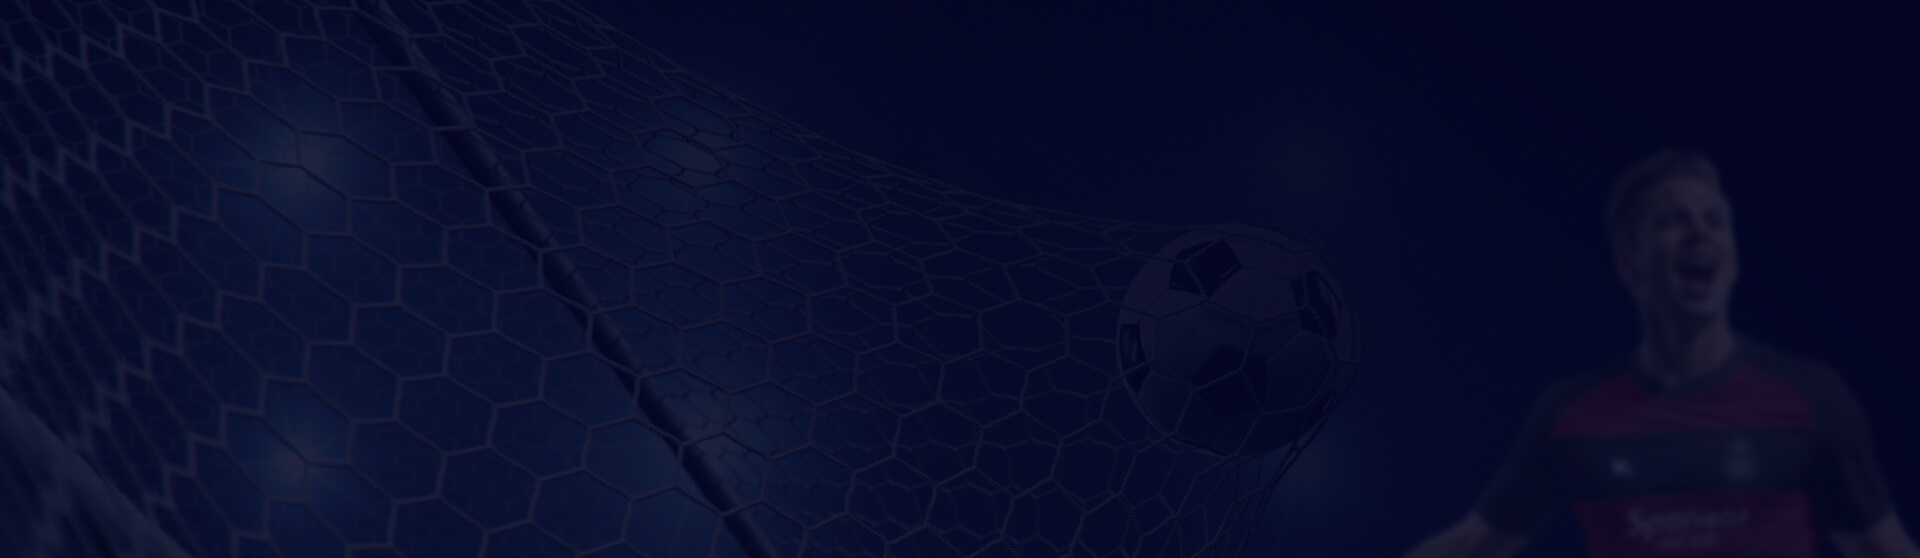
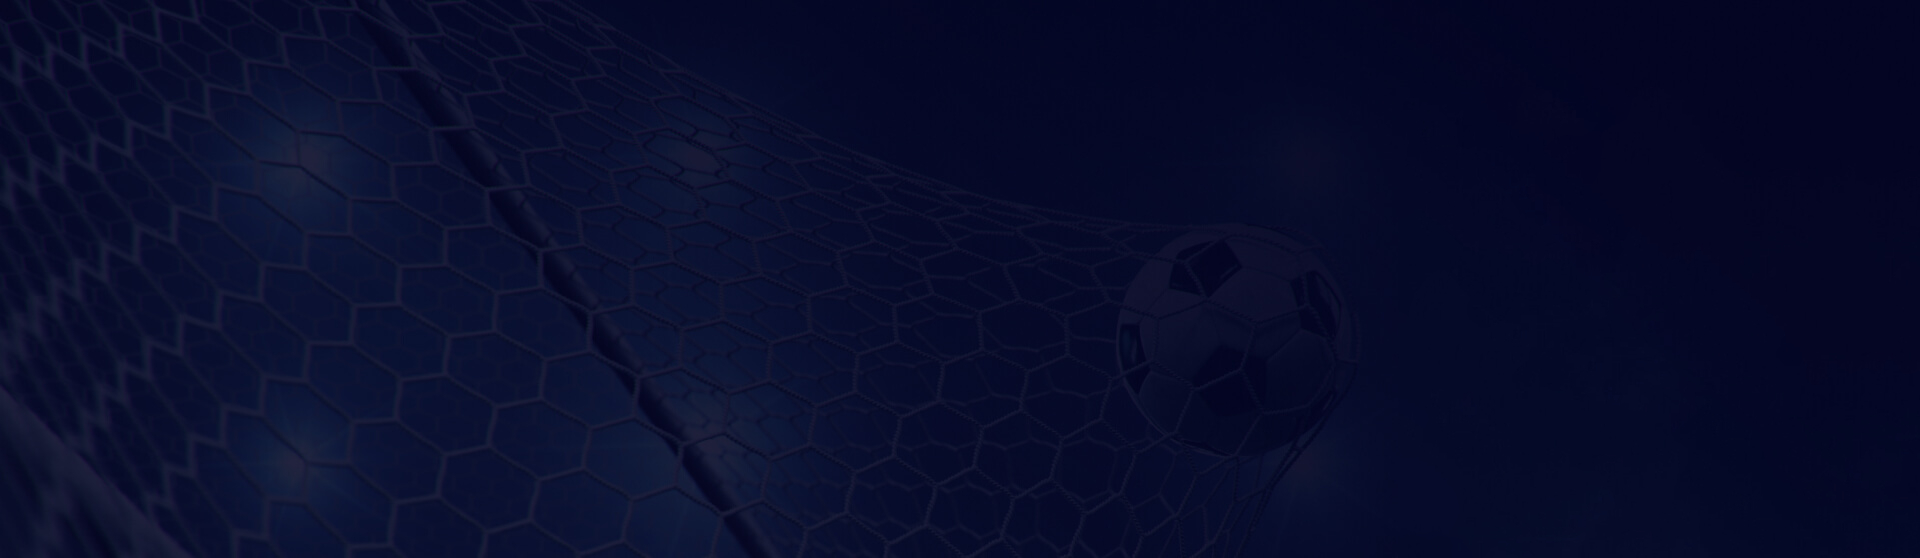
color chnages

Changed region(s): [[0.8438, 0.3047, 0.9062, 0.6703], [0.9688, 0.914, 1.0, 1.0], [0.75, 0.914, 0.7812, 0.9749]]

diff --git a/public/assets/css/main.css b/public/assets/css/main.css
@@ -5565,16 +5565,16 @@ span {
 
 /* Default (Desktop & Tablet) */
 .mobile-bg-control {
-    background-size: contain;
+  background-size: contain;
+}
+
+/* Mobile only */
+@media (max-width: 767px) {
+  .mobile-bg-control {
+    background-size: cover;
   }
-  
-  /* Mobile only */
-  @media (max-width: 767px) {
-    .mobile-bg-control {
-      background-size: cover;
-    }
-  }
-  
+}
+
 .hero-2::before {
   position: absolute;
   top: 0;
@@ -5587,7 +5587,7 @@ span {
   /* background: linear-gradient(251deg, var(--Text-Primary, #030523) 3.32%, rgba(3, 5, 35, 0.48) 50.97%); */
   background: linear-gradient(
     to bottom,
-    var(--Text-Primary, #030523) 1.32%,
+    var(--Text-Primary, #02085e) 1.32%,
     rgba(3, 5, 35, 0.48) 15%,
     rgba(3, 5, 35, 0) 25%
   );
@@ -7528,98 +7528,20 @@ span {
   z-index: 1000;
 }
 .preloader .animation-preloader .spinner {
-  animation: spinner 1s infinite linear;
-  border-radius: 50%;
-  border: 3px solid var(--gold);
-  border-top-color: var(--theme);
-  height: 9em;
   margin: 0 auto 3.5em auto;
-  width: 9em;
-  position: relative;
+  display: flex;
+  justify-content: center;
+  align-items: center;
 }
 .preloader .animation-preloader .spinner .spinner-logo {
-  position: absolute;
-  top: 50%;
-  left: 50%;
-  transform: translate(-50%, -50%);
+  animation: spinner 1s infinite linear;
   object-fit: contain;
   z-index: 2;
 }
 @media (max-width: 767px) {
   .preloader .animation-preloader .spinner {
-    width: 7.5em;
-    height: 7.5em;
     margin: 0 auto 1.5em auto;
   }
-}
-.preloader .animation-preloader .txt-loading {
-  font: 500 5em "Big Shoulders", sans-serif, "Chakra Petch", sans-serif;
-  text-align: center;
-  user-select: none;
-  font-family: "Big Shoulders", sans-serif;
-  font-weight: 700;
-}
-@media (max-width: 767px) {
-  .preloader .animation-preloader .txt-loading {
-    font-size: 2.5em;
-  }
-}
-.preloader .animation-preloader .txt-loading .letters-loading {
-  color: var(--theme);
-  position: relative;
-}
-.preloader
-  .animation-preloader
-  .txt-loading
-  .letters-loading:nth-child(2):before {
-  animation-delay: 0.2s;
-}
-.preloader
-  .animation-preloader
-  .txt-loading
-  .letters-loading:nth-child(3):before {
-  animation-delay: 0.4s;
-}
-.preloader
-  .animation-preloader
-  .txt-loading
-  .letters-loading:nth-child(4):before {
-  animation-delay: 0.6s;
-}
-.preloader
-  .animation-preloader
-  .txt-loading
-  .letters-loading:nth-child(5):before {
-  animation-delay: 0.8s;
-}
-.preloader
-  .animation-preloader
-  .txt-loading
-  .letters-loading:nth-child(6):before {
-  animation-delay: 1s;
-}
-.preloader
-  .animation-preloader
-  .txt-loading
-  .letters-loading:nth-child(7):before {
-  animation-delay: 1.2s;
-}
-.preloader
-  .animation-preloader
-  .txt-loading
-  .letters-loading:nth-child(8):before {
-  animation-delay: 1.4s;
-}
-.preloader .animation-preloader .txt-loading .letters-loading::before {
-  animation: letters-loading 4s infinite;
-  color: var(--header);
-  content: attr(data-text-preloader);
-  left: 0;
-  opacity: 0;
-  font-family: "Big Shoulders", sans-serif;
-  position: absolute;
-  top: -3px;
-  transform: rotateY(-90deg);
 }
 .preloader p {
   font-size: 16px;
@@ -7798,7 +7720,7 @@ span {
   background-position: 0 95%;
   background-repeat: no-repeat;
   background-size: 0% 2px;
-  display: inline;  
+  display: inline;
 }
 .our-club-payer-item .player-image .player-content h4 a:hover {
   color: var(--gold);

diff --git a/public/assets/scss/_preloader.scss b/public/assets/scss/_preloader.scss
@@ -44,85 +44,19 @@
     z-index: 1000;
 
     .spinner {
-      animation: spinner 1s infinite linear;
-      border-radius: 50%;
-      border: 3px solid var(--gold);
-      border-top-color: $theme-color;
-      height: 9em;
       margin: 0 auto 3.5em auto;
-      width: 9em;
-      position: relative;
+      display: flex;
+      justify-content: center;
+      align-items: center;
 
       .spinner-logo {
-        position: absolute;
-        top: 50%;
-        left: 50%;
-        transform: translate(-50%, -50%);
+        animation: spinner 1s infinite linear;
         object-fit: contain;
         z-index: 2;
       }
 
       @media (max-width: 767px) {
-        width: 7.5em;
-        height: 7.5em;
         margin: 0 auto 1.5em auto;
-      }
-    }
-
-    .txt-loading {
-      font: 500 5em $heading-font, $body-font;
-      text-align: center;
-      user-select: none;
-      font-family: $heading-font;
-      font-weight: 700;
-
-      @media (max-width: 767px) {
-        font-size: 2.5em;
-      }
-
-      .letters-loading {
-        color: $theme-color;
-        position: relative;
-
-        &:nth-child(2):before {
-          animation-delay: 0.2s;
-        }
-
-        &:nth-child(3):before {
-          animation-delay: 0.4s;
-        }
-
-        &:nth-child(4):before {
-          animation-delay: 0.6s;
-        }
-
-        &:nth-child(5):before {
-          animation-delay: 0.8s;
-        }
-
-        &:nth-child(6):before {
-          animation-delay: 1s;
-        }
-
-        &:nth-child(7):before {
-          animation-delay: 1.2s;
-        }
-
-        &:nth-child(8):before {
-          animation-delay: 1.4s;
-        }
-
-        &::before {
-          animation: letters-loading 4s infinite;
-          color: $header-color;
-          content: attr(data-text-preloader);
-          left: 0;
-          opacity: 0;
-          font-family: $heading-font;
-          position: absolute;
-          top: -3px;
-          transform: rotateY(-90deg);
-        }
       }
     }
   }

diff --git a/src/components/Preloader.tsx b/src/components/Preloader.tsx
@@ -17,21 +17,7 @@ export default function Preloader() {
           />
         </div>
 
-        <div className="txt-loading">
-          <span data-text-preloader="T" className="letters-loading">
-            {" "}
-            T{" "}
-          </span>
-          <span data-text-preloader="F" className="letters-loading">
-            {" "}
-            F{" "}
-          </span>
-          <span data-text-preloader="C" className="letters-loading">
-            {" "}
-            C{" "}
-          </span>
-        </div>
-        <p className="text-center">Loading</p>
+        <p className="text-center">Loading ... </p>
       </div>
       <div className="loader">
         <div className="row">
